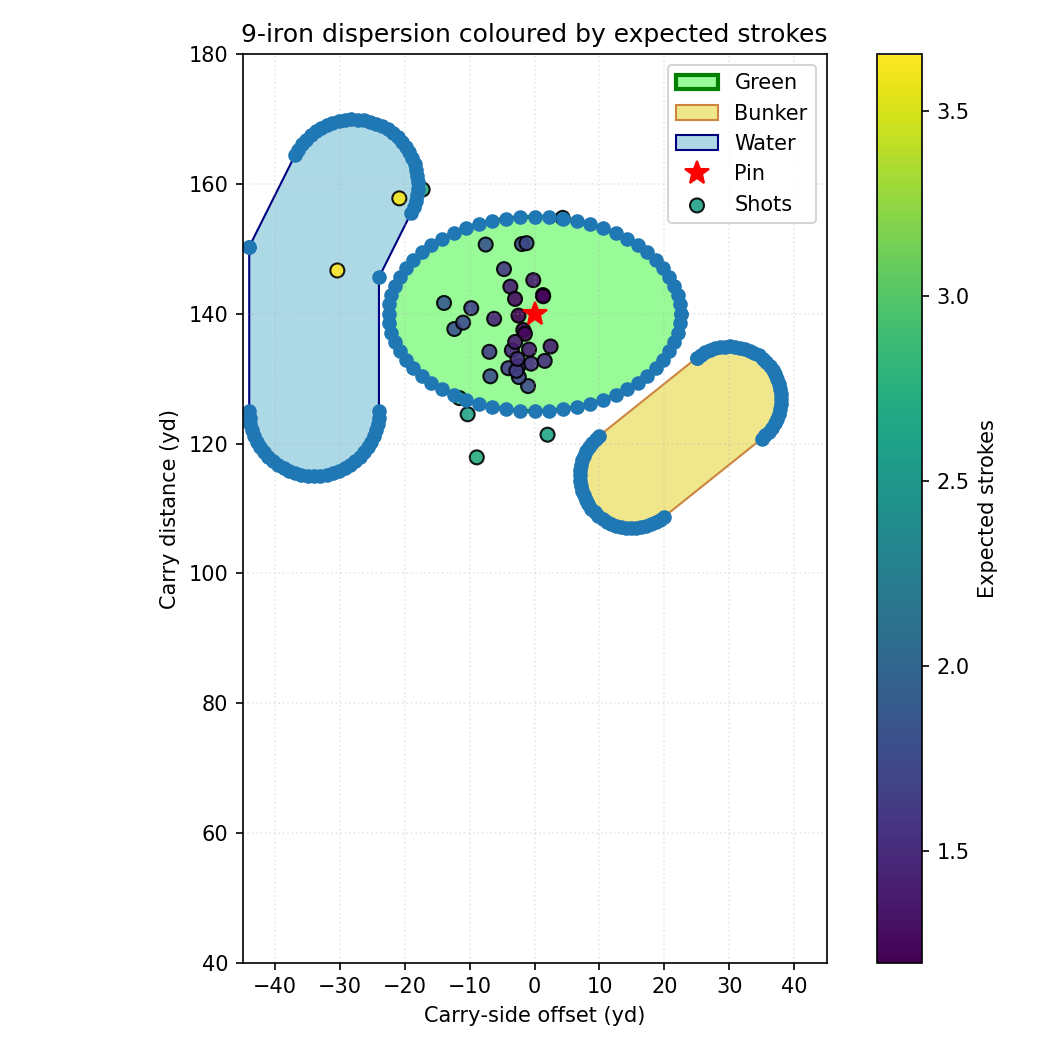
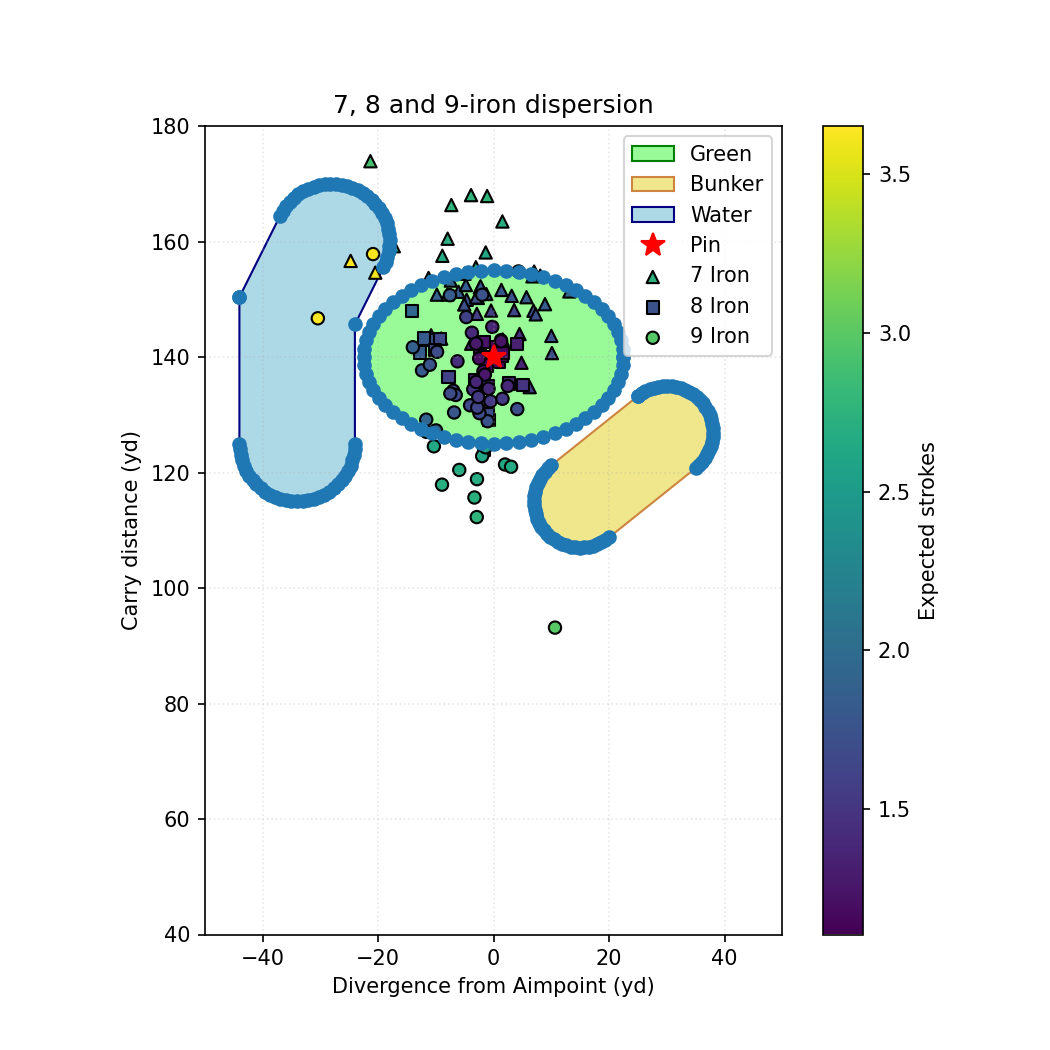
finish cone and loss function

diff --git a/runshotselect.py b/runshotselect.py
@@ -3,7 +3,7 @@ from shapely.geometry import LineString
 from shapely.affinity import scale, rotate
 from shapely.plotting import plot_polygon, plot_points
 import matplotlib.pyplot as plt
-from matplotlib.patches import Circle, Polygon
+from matplotlib.patches import Circle, Polygon, Ellipse
 import matplotlib.cm as cm
 import math 
 import os
@@ -42,18 +42,18 @@ print(green_poly)
 
 fig, ax = plt.subplots(figsize=(7, 7))
 
-# plot_polygon(green_poly, ax=ax, facecolor='palegreen', edgecolor='green',  lw=2, label='Green')
-# plot_polygon(sand_poly,  ax=ax, facecolor='khaki',     edgecolor='peru',   label='Bunker')
-# plot_polygon(water_poly, ax=ax, facecolor='lightblue', edgecolor='navy',   label='Water')
-# #plot_points([Point(*PIN)], ax=ax, marker='*', color='red', markersize=150, label='Pin')
+plot_polygon(green_poly, ax=ax, facecolor='palegreen', edgecolor='green',  lw=2, label='Green')
+plot_polygon(sand_poly,  ax=ax, facecolor='khaki',     edgecolor='peru',   label='Bunker')
+plot_polygon(water_poly, ax=ax, facecolor='lightblue', edgecolor='navy',   label='Water')
+#plot_points([Point(*PIN)], ax=ax, marker='*', color='red', markersize=150, label='Pin')
 
-# ax.set_aspect('equal', 'box')
-# ax.set_xlim(-45, 45); ax.set_ylim(0, 180)
-# ax.set_xlabel("x (yd)"); ax.set_ylabel("y (yd)")
-# ax.set_title("Toy green with water + sand hazards")
-# ax.legend(loc="upper right")
-# plt.grid(ls=":", alpha=.3)
-# plt.tight_layout(); plt.show()
+ax.set_aspect('equal', 'box')
+ax.set_xlim(-45, 45); ax.set_ylim(40, 180)
+ax.set_xlabel("x (yd)"); ax.set_ylabel("y (yd)")
+ax.set_title("Par-3 with water + sand hazards")
+ax.legend(loc="upper right")
+plt.grid(ls=":", alpha=.3)
+plt.tight_layout(); plt.show()
 
 
 
@@ -100,72 +100,191 @@ def expected_strokes(x, y):
         return gpr_by_lie['rough'].predict(d2,return_std=False, return_cov=False)[0]
 vec_exp = np.vectorize(expected_strokes)
 
-   # > inside rough fringe
-print("On green :", expected_strokes(0,1))
-print("Water:", expected_strokes(-34, -10)) 
-print("Bunker :", expected_strokes(15, -25))
+#    # > some test cases
+# print("On green :", expected_strokes(0,1))
+# print("Water:", expected_strokes(-34, -10)) 
+# print("Bunker :", expected_strokes(15, -25))
 
-df = pd.read_csv("data/15-may-fede.csv")
-df["Carry Flat - Length"] = pd.to_numeric(df["Carry Flat - Length"], errors='coerce')
-df["Carry Flat - Side"]   = pd.to_numeric(df["Carry Flat - Side"],   errors='coerce')
+files = ["data/15-may-fede.csv", "data/fede8ironhalf7iron.csv"]
 
+dfs = []
+for f in files: #taking two datasets for 9iron, 8iron and 7iron shots
+    df_tmp = pd.read_csv(f)
+
+    # change from string to number
+    df_tmp["Carry Flat - Side"]   = pd.to_numeric(df_tmp["Carry Flat - Side"],   errors="coerce")
+    df_tmp["Carry Flat - Length"] = pd.to_numeric(df_tmp["Carry Flat - Length"], errors="coerce")
+
+    dfs.append(df_tmp)
+
+df_all = pd.concat(dfs, ignore_index=True) #reset row values from 0 onwards
+
+clubs = ["9 iron", "8 iron", "7 iron"]
+df_all["Club"] = df_all["Club"].str.lower() #reformat the club column
+print(df_all["Club"])
+#filtering shots that we want (9,8,7 iron shots)
 shots = (
-    df.loc[119:157, ["Carry Flat - Side", "Carry Flat - Length"]]
-      .dropna()
-      .rename(columns={"Carry Flat - Side": "x",
-                       "Carry Flat - Length": "y"})
+    df_all[df_all["Club"].isin(clubs)]
+        [["Club", "Carry Flat - Side", "Carry Flat - Length"]] #checking the x,y coordinate of landing spot of ball
+        .dropna() 
+        .rename(columns={"Carry Flat - Side": "x", #set x and y coordinates
+                         "Carry Flat - Length": "y",
+                         "Club": "club"}) # club for coloring
+        .reset_index(drop=True) #start row from 0 after selection from df_all
 )
 
-# 2.  Call your expected_strokes for every shot --------------------
-#     (suppress the debug prints so the loop doesn’t spam stdout)
+#expected strokes for each club shot
 estimates = []
-buf = io.StringIO()
-
 for x, y in zip(shots["x"], shots["y"]):
-    est = expected_strokes(x, y)
+    est = expected_strokes(x, y) #calculate expected strokes
     estimates.append(est)
 
 shots["exp_strokes"] = estimates
 
 print(shots)
-fig, ax = plt.subplots(figsize=(7, 7))
-plot_polygon(green_poly, ax=ax, fc="palegreen", ec="green", lw=2, label="Green")
+
+#CODE FOR PLOTTING ON MOCK-UP GREEN
+fig, ax = plt.subplots(figsize=(7, 7)) #plotting the dispersion of club shots
+# course details color 
+plot_polygon(green_poly, ax=ax, fc="palegreen", ec="green", label="Green")
 plot_polygon(sand_poly,  ax=ax, fc="khaki",     ec="peru",  label="Bunker")
 plot_polygon(water_poly, ax=ax, fc="lightblue", ec="navy",  label="Water")
 ax.plot(*PIN, "r*", ms=12, label="Pin")
 
-norm   = plt.Normalize(shots.exp_strokes.min(), shots.exp_strokes.max())
-colors = cm.viridis(norm(shots.exp_strokes.values))
-ax.scatter(shots.x, shots.y, c=colors, s=45, edgecolor="k", alpha=.9, label="Shots")
+# expected strokes heat chart
+norm   = plt.Normalize(shots.exp_strokes.min(), shots.exp_strokes.max()) #maps [min, max] -> [0,1]
+cmap   = cm.viridis #found online, used for gradient shading
+
+# different shapes for type of club shot 
+marker_map = {
+    "9 iron": "o",      
+    "8 iron": "s",  #square
+    "7 iron": "^",  #triangle
+}
+#for all club shots, plot 
+for club, grp in shots.groupby("club"):
+    ax.scatter(grp.x, grp.y, c=cmap(norm(grp.exp_strokes.values)), marker=marker_map.get(club, "o"),
+        s=35, 
+        edgecolor="k", #add black outline
+        label=club.title(), #adds club label to the key
+    )
+
+# color bar for expected strokes (found online)
+fig.colorbar(cm.ScalarMappable(norm=norm, cmap=cmap), ax=ax, label="Expected strokes")
 
 ax.set_aspect("equal", "box")
-ax.set_xlim(-45, 45); ax.set_ylim(40, 180)
-ax.set_xlabel("Carry‑side offset (yd)")
+ax.set_xlim(-50, 50); ax.set_ylim(40, 180)
+ax.set_xlabel("Divergence from Aimpoint (yd)")
 ax.set_ylabel("Carry distance (yd)")
-ax.set_title("9‑iron dispersion coloured by expected strokes")
-fig.colorbar(cm.ScalarMappable(norm=norm, cmap="viridis"),
-             ax=ax, label="Expected strokes")
-ax.legend(loc="upper right")
-ax.grid(ls=":", alpha=.3); plt.tight_layout()
+ax.set_title("7, 8 and 9-iron dispersion")
+ax.legend(loc="upper right") #key/legend for markers, club names, etc
+ax.grid(ls=":", alpha=.3) #light grid for reference
 plt.savefig("results/shot_overlay_expected_strokes.png", dpi=150)
-plt.show()
-
-# 4.  Histogram + KDE ---------------------------------------------
-fig, ax = plt.subplots(figsize=(6, 4))
-ax.hist(shots.exp_strokes, bins=10, color="steelblue", alpha=.6,
-        density=True, label="Histogram")
-
-xs  = np.linspace(shots.exp_strokes.min()-0.2,
-                  shots.exp_strokes.max()+0.2, 200)
-kde = gaussian_kde(shots.exp_strokes)(xs)
-ax.plot(xs, kde, color="darkblue", lw=2, label="KDE")
-
-ax.set_xlabel("Expected strokes to hole‑out")
-ax.set_ylabel("Density")
-ax.set_title("Distribution of expected strokes (9‑iron sample)")
-ax.legend(); plt.tight_layout()
-plt.savefig("results/expected_strokes_distribution.png", dpi=150)
 plt.show()
 
 print(f"Mean expected strokes : {shots.exp_strokes.mean():.2f}")
 print(f"Median expected strokes: {shots.exp_strokes.median():.2f}")
+
+
+#CONE APPROACH: Setting target direction from -10 degrees to 10 degrees away from the pin location
+def rotate_xy(x, y, theta):
+    #using rotation matrix R_theta
+    cos_t, sin_t = np.cos(theta), np.sin(theta)
+    new_coord = (x * cos_t - y * sin_t, x * sin_t + y * cos_t) #comes from rotation matrix * [x,y]
+    return new_coord
+
+#penalty function for expected number of strokes against target value
+def playoff_loss(exp_strokes, target, k = 3):
+    #setting exponential penalty for exp strokes > our target value
+    #if exp strokes = target (lets say birdie) then our function returns 1
+    #if exp strokes > target then penalty > 1 and increases exponentially
+    #if exp strokes < target then penalty < 1 but small reward for this
+    return np.mean(np.exp(k * (exp_strokes - target)))
+
+#plots club dispersion 
+def plot_cone_on_course(df_c, best_angle_deg, club, cone_deg=10, cone_len=200):
+    shot_angles = np.degrees(np.arctan2(df_c.x.values, df_c.y.values))
+    
+    #mock up hole plot
+    fig, ax = plt.subplots(figsize=(7, 7))
+    plot_polygon(green_poly, ax=ax, fc='palegreen',  ec='green', lw=2, label='Green')
+    plot_polygon(sand_poly,  ax=ax, fc='khaki',      ec='peru',  label='Bunker')
+    plot_polygon(water_poly, ax=ax, fc='lightblue',  ec='navy',  label='Water')
+    ax.plot(*PIN, 'r*', ms=12, label='Pin')
+
+    # plot the shot dispersion 
+    ax.scatter(df_c['x'], df_c['y'], s=28, c='seagreen')
+    
+    # cone boundaries and shading (origin = tee pointed up from (0,0))
+    y_line = np.linspace(0, cone_len, 220)
+    for bd in (-cone_deg, cone_deg): #from -10 degrees to +10 degrees about 0
+        rad = np.deg2rad(bd)
+        ax.plot(y_line * np.sin(rad), y_line * np.cos(rad), 'k--', lw=1.2)
+    left_x  = y_line * np.sin(np.deg2rad(-cone_deg))
+    right_x = y_line * np.sin(np.deg2rad(+cone_deg))
+    ax.fill_betweenx(y_line, left_x, right_x, color='grey', alpha=0.10, label=f'±{cone_deg}° cone')
+
+    # find and note best aim line 
+    best_rad = np.deg2rad(best_angle_deg)
+    ax.plot([0, cone_len * np.sin(best_rad)],
+            [0, cone_len * np.cos(best_rad)],
+            color='purple', lw=3,
+            label=f'Best aimpoint {best_angle_deg:+.0f}°')
+    #all similar to ax configs as before
+    ax.set_aspect('equal', 'box')
+    ax.set_xlim(-70,  70)
+    ax.set_ylim(  0, cone_len)
+    ax.set_xlabel('Divergence from Aimpoint (yd)')
+    ax.set_ylabel('Carry distance (yd)')
+    ax.set_title(f'{club.title()} shots with ±{cone_deg}° cone')
+    ax.grid(ls=':', alpha=.3)
+    ax.legend(loc='upper right')
+    plt.tight_layout()
+    plt.show()
+
+    #save to file path (ex: 7 iron -> 7_iron_cone_plot.png)
+    club_filename = club.lower().replace(' ', '_') 
+    save_path = f"results/{club_filename}_cone_plot.png"
+    fig.savefig(save_path, dpi=150) #ensure good quality for png
+    plt.close(fig)
+
+for club, df_c in shots.groupby("club"): # for each iron
+    print(f"\n━━━━━━━━━━━━━━━━━━  {club.title()}  ━━━━━━━━━━━━━━━━━━")
+
+    # Mean expected strokes for each club (df_c includes (x,y) coords + exp_strokes)
+    club_mean = df_c.exp_strokes.mean()
+    club_med  = df_c.exp_strokes.median()
+    print(f" Mean & Median exp. strokes) : {club_mean:.2f}  /  {club_med:.2f}")
+
+    # Checking expected shots from dispersion of shots: 
+    # essentially changing the landing location of all shots via rotation then calculating expected strokes
+    results = []
+    for deg in range(-10, 11): # negative 10 degrees to +10 degrees if pin is at 0 
+        theta = np.deg2rad(deg)
+        xs_r, ys_r = rotate_xy(df_c.x.values, df_c.y.values, theta) #rotate based rad value of degree
+        est_rotated = []
+        for x_rot, y_rot in zip(xs_r, ys_r): #goes through all shots but rotated
+            stroke = expected_strokes(x_rot, y_rot)
+            est_rotated.append(stroke)
+        mean_exp = np.mean(est_rotated)
+        
+        results.append({"angle_deg": deg,
+                        "mean_exp": mean_exp})
+
+    angle_df = pd.DataFrame(results)
+    best = angle_df.loc[angle_df["mean_exp"].idxmin()] #finds min aka best expected strokes of aimpoint degree
+
+    plot_cone_on_course(df_c, best["angle_deg"], club) # plots cone (degree spread) and best degree on mockup hole
+    print("±10° mean exp. strokes by angle")
+    print(angle_df.to_string(index=False, formatters={"mean_exp": "{:.2f}".format}))
+    print(f"Optimal within cone : {best.angle_deg:+.0f}°  "f"(mean {best.mean_exp:.2f})")
+
+    angle_df.to_csv(f"results/{club.replace(' ','_')}_aim_cone.csv", index=False)
+
+    # “must-birdie” loss calculated (if not birdie situation, then add higher penalty)
+    need_birdie = 2
+    cannot_par = 3
+    loss = playoff_loss(df_c.exp_strokes.values, need_birdie, k = 3)
+    print(f"Play-off weighted loss (birdie target) : {loss:.3f}")
+    
+    
